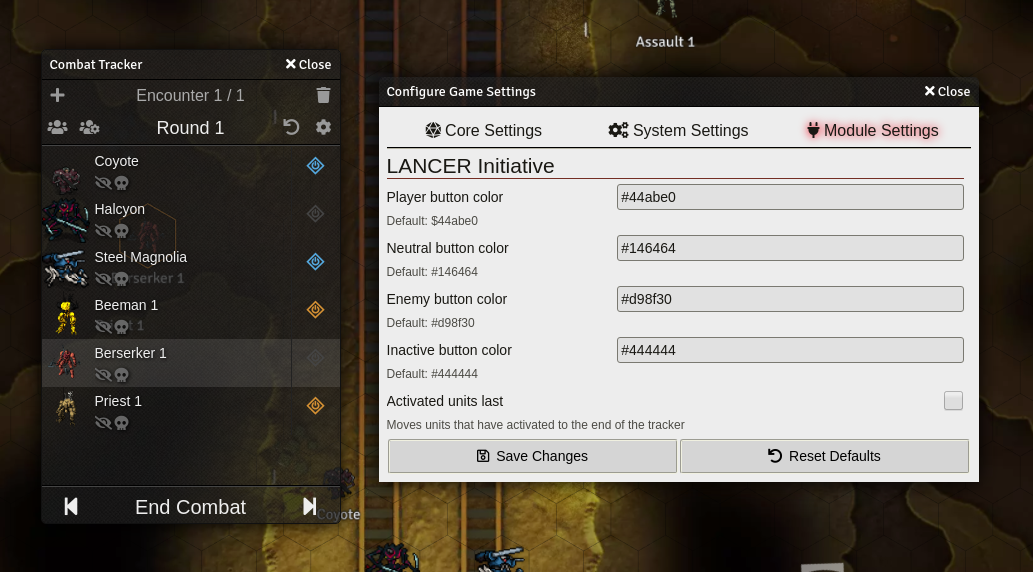
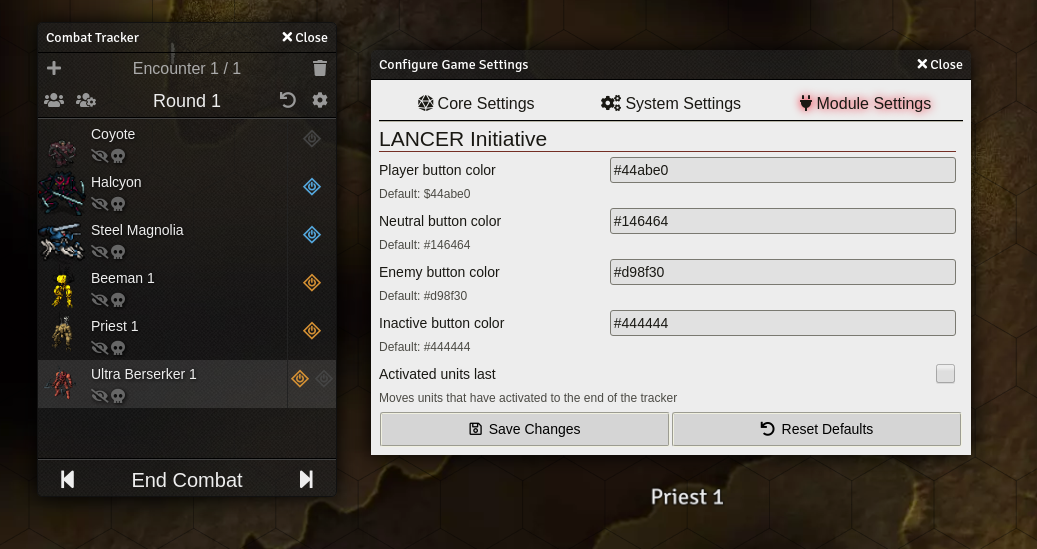
Add context menu options for new data structure
Changes the context menu options to match the new paradigm, so now there
is an add activation and remove activation to increment/decrement the
number of actions a unit has. By default a unit will have activations
equal to {actor}.data.data.activations, or 1 if that parameter is not
set.

diff --git a/lancer-initiative.js b/lancer-initiative.js
@@ -89,13 +89,41 @@ class LancerInitiative {
                 icon: '<i class="cci cci-activate"></i>',
                 callback:  async (li) => {
                     const combatant = this.combat.getCombatant(li.data('combatant-id'));
-                    await this.combat.createCombatant(combatant);
+                    let max = combatant.flags.activations.max + 1;
+                    await this.combat.updateCombatant({
+                        _id: combatant._id,
+                        "flags.activations.max": max
+                    });
+                }
+            },
+            {
+                name: "Remove Activation",
+                icon: '<i class="cci cci-deactivate"></i>',
+                callback:  async (li) => {
+                    const combatant = this.combat.getCombatant(li.data('combatant-id'));
+                    let max = combatant.flags.activations.max - 1;
+                    let cur = clampNumber(combatant.flags.activations.value, 0, max > 0 ? max : 1);
+                    await this.combat.updateCombatant({
+                        _id: combatant._id,
+                        "flags.activations.max": max > 0 ? max : 1,
+                        "flags.activations.value": cur
+                    });
                 }
             },
             {
                 name: "Undo Activation",
                 icon: '<i class="fas fa-undo"></i>',
-                callback: li => this.combat.setFlag("lancer-initiative", li.data('combatant-id'), { acted: false })
+                callback: li => {
+                    const combatant = this.combat.getCombatant(li.data('combatant-id'));
+                    let max = combatant.flags.activations.max;
+                    let cur = clampNumber(combatant.flags.activations.value+1, 0, max > 0 ? max : 1);
+                    this.combat.updateCombatant({
+                        _id: combatant._id,
+                        "flags.activations.value": cur
+                    });
+                }
+
+                //setFlag("lancer-initiative", li.data('combatant-id'), { acted: false })
             },
             {
                 name: "COMBAT.CombatantUpdate",
@@ -130,6 +158,7 @@ class LancerInitiative {
     }
 
     static handleCreateCombatant(combat, combatant, options, userId) {
+        if (! game.user.isGM ) return;
         if (combatant.tokenId === undefined) return;
         // AAAAAAAAAAAAAAAAAAAAAAAAAAAAAAAAAAA
         let a = canvas.tokens.get(combatant.tokenId).actor.data.data?.activations;
